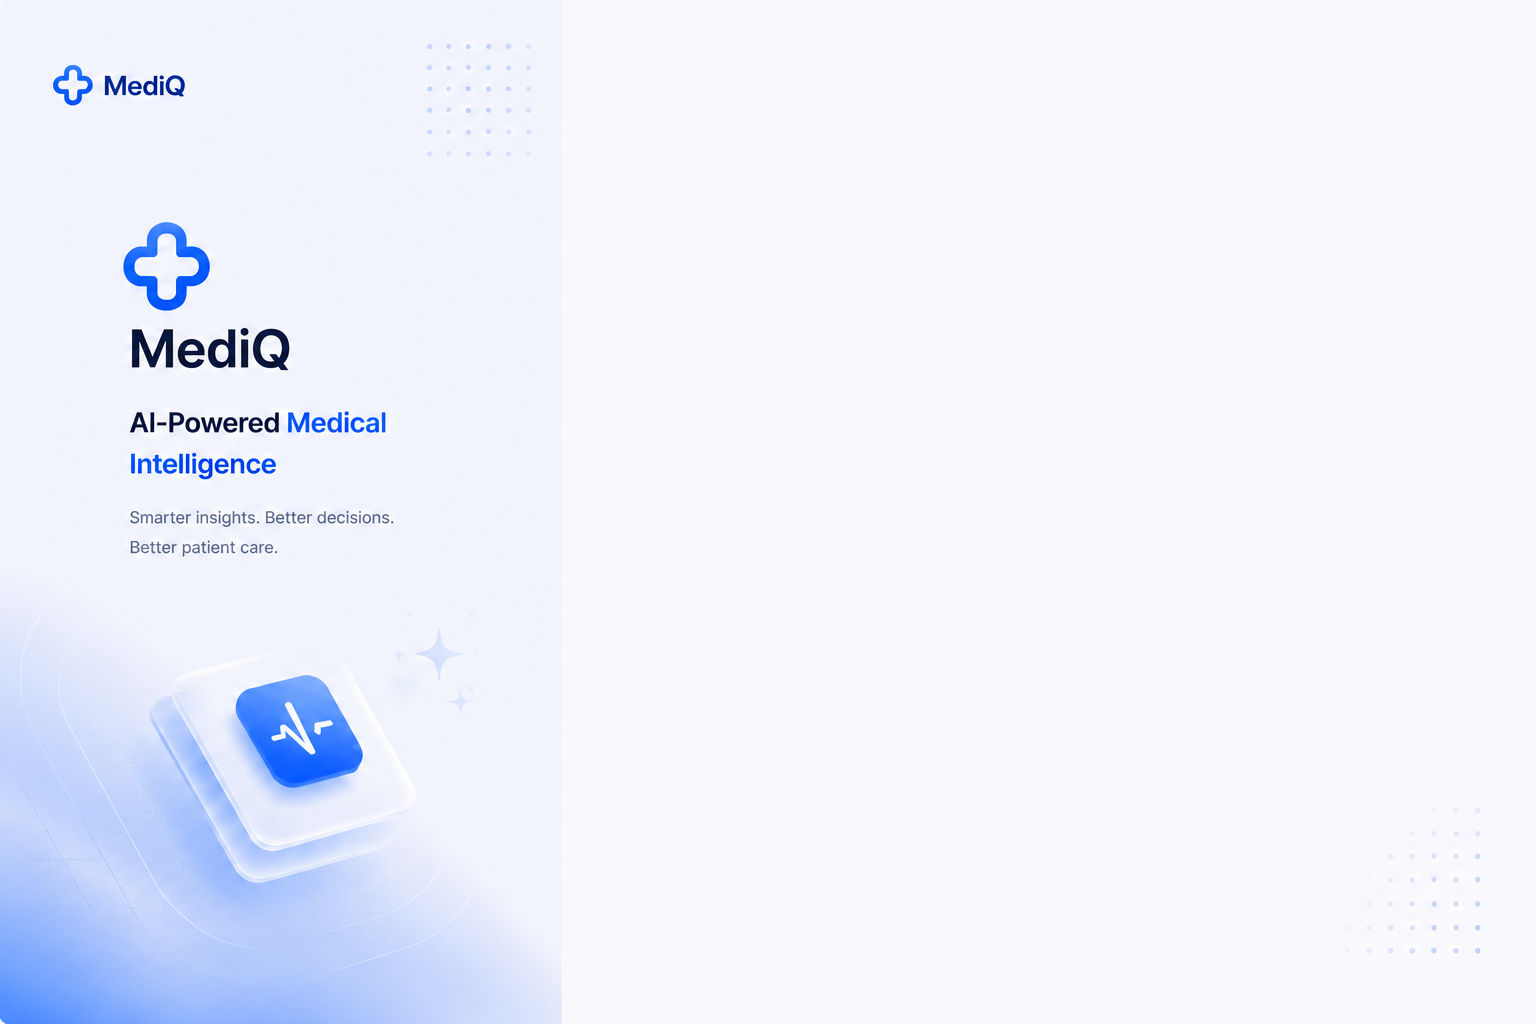
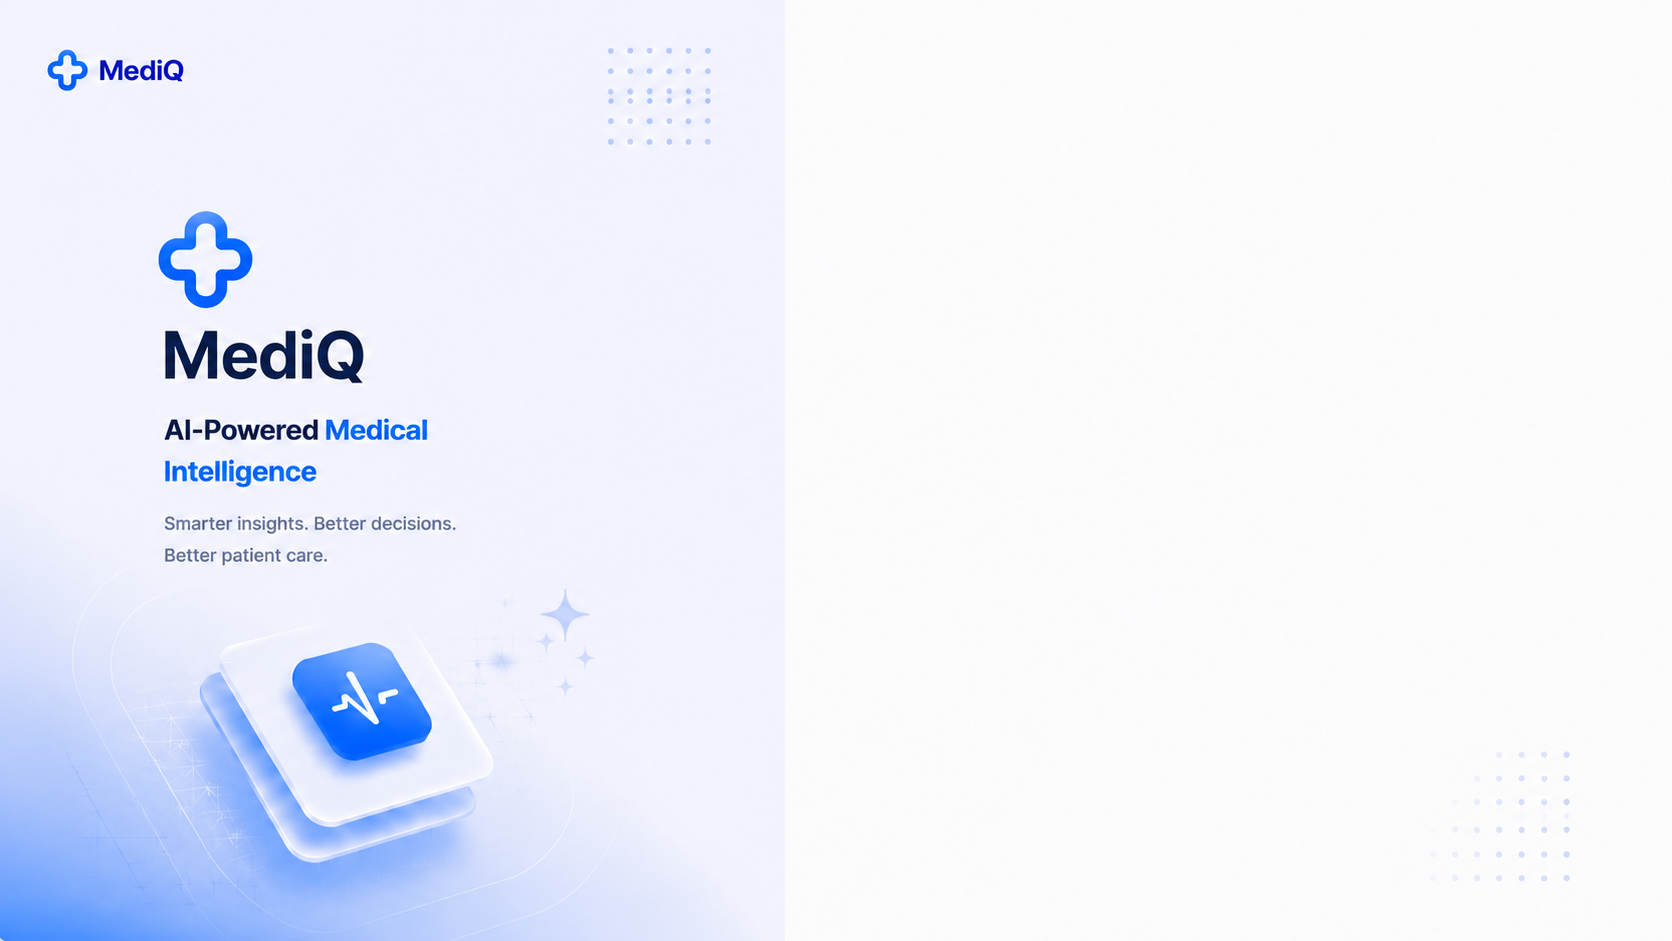
feat: streamline auth flow, chat navigation, and UI defaults

diff --git a/apps/web/src/app/(auth)/auth/page.tsx b/apps/web/src/app/(auth)/auth/page.tsx
@@ -72,137 +72,143 @@ export default function AuthPage() {
           }}
         />
         
-        {/* Auth Card Container */}
-        <div className="relative z-10 w-full flex items-center justify-center lg:justify-end lg:pr-[10%] xl:pr-[12%] p-4 lg:p-12 h-full">
-      <div
-        className="w-full max-w-[440px] bg-white rounded-2xl p-8 shadow-xl border relative"
-        style={{ borderColor: "var(--border-default)" }}
-      >
-        <div className="mb-8">
-          <h2 className="text-2xl font-bold" style={{ color: "var(--text-primary)" }}>
-            {isSignUp ? "Create an account" : "Welcome back"}
-          </h2>
-          <p className="text-sm mt-1.5" style={{ color: "var(--text-secondary)" }}>
-            {isSignUp ? "Sign up to get started with MediQ" : "Sign in to continue to MediQ"}
-          </p>
-        </div>
-
-        <div className="space-y-6">
-          <button
-            type="button"
-            onClick={handleGoogleAuth}
-            disabled={googleLoading}
-            className="w-full flex items-center justify-center gap-2 border rounded-xl py-2.5 text-sm font-medium transition-colors hover:bg-gray-50"
-            style={{ borderColor: "var(--border-default)", color: "var(--text-primary)" }}
-          >
-            {googleLoading ? (
-              <Spinner />
-            ) : (
-              <svg width="18" height="18" viewBox="0 0 24 24" fill="none" xmlns="http://www.w3.org/2000/svg">
-                <path d="M22.56 12.25c0-.78-.07-1.53-.2-2.25H12v4.26h5.92c-.26 1.37-1.04 2.53-2.21 3.31v2.77h3.57c2.08-1.92 3.28-4.74 3.28-8.09z" fill="#4285F4"/>
-                <path d="M12 23c2.97 0 5.46-.98 7.28-2.66l-3.57-2.77c-.98.66-2.23 1.06-3.71 1.06-2.86 0-5.29-1.93-6.16-4.53H2.18v2.84C3.99 20.53 7.7 23 12 23z" fill="#34A853"/>
-                <path d="M5.84 14.09c-.22-.66-.35-1.36-.35-2.09s.13-1.43.35-2.09V7.07H2.18C1.43 8.55 1 10.22 1 12s.43 3.45 1.18 4.93l2.85-2.22.81-.62z" fill="#FBBC05"/>
-                <path d="M12 5.38c1.62 0 3.06.56 4.21 1.64l3.15-3.15C17.45 2.09 14.97 1 12 1 7.7 1 3.99 3.47 2.18 7.07l3.66 2.84c.87-2.6 3.3-4.53 6.16-4.53z" fill="#EA4335"/>
-              </svg>
-            )}
-            Continue with Google
-          </button>
-
-          <div className="relative flex items-center">
-            <div className="flex-grow border-t" style={{ borderColor: "var(--border-default)" }}></div>
-            <span className="shrink-0 px-4 text-xs" style={{ color: "var(--text-muted)" }}>or</span>
-            <div className="flex-grow border-t" style={{ borderColor: "var(--border-default)" }}></div>
-          </div>
-
-          <form onSubmit={handleEmailAuth} className="space-y-4">
-            <div className="space-y-1.5">
-              <label className="text-sm font-medium" style={{ color: "var(--text-primary)" }}>Email address</label>
-              <div className="relative">
-                <div className="absolute inset-y-0 left-0 pl-3 flex items-center pointer-events-none text-gray-400">
-                  <Mail size={16} />
-                </div>
-                <Input
-                  type="email"
-                  required
-                  placeholder="Enter your email"
-                  value={email}
-                  onChange={(e) => setEmail(e.target.value)}
-                  className="pl-9 h-11 rounded-xl bg-gray-50/50"
-                />
+        {/* Auth Card Container (50/50 split) */}
+        <div className="relative z-10 w-full h-full flex lg:grid lg:grid-cols-2">
+          {/* Left half is empty (transparent) so the background image shows */}
+          <div className="hidden lg:block"></div>
+          
+          {/* Right half contains the centered card */}
+          <div className="flex flex-col items-center justify-center p-4 lg:p-12 h-full relative">
+            <div
+              className="w-full max-w-[440px] bg-white rounded-2xl p-8 shadow-xl border relative"
+              style={{ borderColor: "var(--border-default)" }}
+            >
+              <div className="mb-8">
+                <h2 className="text-2xl font-bold" style={{ color: "var(--text-primary)" }}>
+                  {isSignUp ? "Create an account" : "Welcome back"}
+                </h2>
+                <p className="text-sm mt-1.5" style={{ color: "var(--text-secondary)" }}>
+                  {isSignUp ? "Sign up to get started with MediQ" : "Sign in to continue to MediQ"}
+                </p>
               </div>
-            </div>
 
-            <div className="space-y-1.5">
-              <label className="text-sm font-medium" style={{ color: "var(--text-primary)" }}>Password</label>
-              <div className="relative">
-                <div className="absolute inset-y-0 left-0 pl-3 flex items-center pointer-events-none text-gray-400">
-                  <Lock size={16} />
-                </div>
-                <Input
-                  type={showPassword ? "text" : "password"}
-                  required
-                  placeholder="Enter your password"
-                  value={password}
-                  onChange={(e) => setPassword(e.target.value)}
-                  className="pl-9 pr-10 h-11 rounded-xl bg-gray-50/50"
-                />
+              <div className="space-y-6">
                 <button
                   type="button"
-                  className="absolute inset-y-0 right-0 pr-3 flex items-center text-gray-400 hover:text-gray-600"
-                  onClick={() => setShowPassword(!showPassword)}
+                  onClick={handleGoogleAuth}
+                  disabled={googleLoading}
+                  className="w-full flex items-center justify-center gap-2 border rounded-xl py-2.5 text-sm font-medium transition-colors hover:bg-gray-50"
+                  style={{ borderColor: "var(--border-default)", color: "var(--text-primary)" }}
                 >
-                  {showPassword ? <EyeOff size={16} /> : <Eye size={16} />}
+                  {googleLoading ? (
+                    <Spinner />
+                  ) : (
+                    <svg width="18" height="18" viewBox="0 0 24 24" fill="none" xmlns="http://www.w3.org/2000/svg">
+                      <path d="M22.56 12.25c0-.78-.07-1.53-.2-2.25H12v4.26h5.92c-.26 1.37-1.04 2.53-2.21 3.31v2.77h3.57c2.08-1.92 3.28-4.74 3.28-8.09z" fill="#4285F4"/>
+                      <path d="M12 23c2.97 0 5.46-.98 7.28-2.66l-3.57-2.77c-.98.66-2.23 1.06-3.71 1.06-2.86 0-5.29-1.93-6.16-4.53H2.18v2.84C3.99 20.53 7.7 23 12 23z" fill="#34A853"/>
+                      <path d="M5.84 14.09c-.22-.66-.35-1.36-.35-2.09s.13-1.43.35-2.09V7.07H2.18C1.43 8.55 1 10.22 1 12s.43 3.45 1.18 4.93l2.85-2.22.81-.62z" fill="#FBBC05"/>
+                      <path d="M12 5.38c1.62 0 3.06.56 4.21 1.64l3.15-3.15C17.45 2.09 14.97 1 12 1 7.7 1 3.99 3.47 2.18 7.07l3.66 2.84c.87-2.6 3.3-4.53 6.16-4.53z" fill="#EA4335"/>
+                    </svg>
+                  )}
+                  Continue with Google
                 </button>
+
+                <div className="relative flex items-center">
+                  <div className="flex-grow border-t" style={{ borderColor: "var(--border-default)" }}></div>
+                  <span className="shrink-0 px-4 text-xs" style={{ color: "var(--text-muted)" }}>or</span>
+                  <div className="flex-grow border-t" style={{ borderColor: "var(--border-default)" }}></div>
+                </div>
+
+                <form onSubmit={handleEmailAuth} className="space-y-4">
+                  <div className="space-y-1.5">
+                    <label className="text-sm font-medium" style={{ color: "var(--text-primary)" }}>Email address</label>
+                    <div className="relative">
+                      <div className="absolute inset-y-0 left-0 pl-3 flex items-center pointer-events-none text-gray-400">
+                        <Mail size={16} />
+                      </div>
+                      <Input
+                        type="email"
+                        required
+                        placeholder="Enter your email"
+                        value={email}
+                        onChange={(e) => setEmail(e.target.value)}
+                        className="pl-9 h-11 rounded-xl bg-gray-50/50"
+                      />
+                    </div>
+                  </div>
+
+                  <div className="space-y-1.5">
+                    <label className="text-sm font-medium" style={{ color: "var(--text-primary)" }}>Password</label>
+                    <div className="relative">
+                      <div className="absolute inset-y-0 left-0 pl-3 flex items-center pointer-events-none text-gray-400">
+                        <Lock size={16} />
+                      </div>
+                      <Input
+                        type={showPassword ? "text" : "password"}
+                        required
+                        placeholder="Enter your password"
+                        value={password}
+                        onChange={(e) => setPassword(e.target.value)}
+                        className="pl-9 pr-10 h-11 rounded-xl bg-gray-50/50"
+                      />
+                      <button
+                        type="button"
+                        className="absolute inset-y-0 right-0 pr-3 flex items-center text-gray-400 hover:text-gray-600"
+                        onClick={() => setShowPassword(!showPassword)}
+                      >
+                        {showPassword ? <EyeOff size={16} /> : <Eye size={16} />}
+                      </button>
+                    </div>
+                  </div>
+
+                  {!isSignUp && (
+                    <div className="flex items-center justify-between pt-1">
+                      <label className="flex items-center gap-2 cursor-pointer">
+                        <input type="checkbox" className="w-4 h-4 rounded border-gray-300 text-blue-600 focus:ring-blue-500 cursor-pointer" />
+                        <span className="text-sm text-gray-600 cursor-pointer">Remember me</span>
+                      </label>
+                      <a href="#" className="text-sm font-medium text-blue-600 hover:underline">Forgot password?</a>
+                    </div>
+                  )}
+
+                  {error && (
+                    <p className="text-sm text-red-500 text-center">{error}</p>
+                  )}
+
+                  <Button
+                    type="submit"
+                    disabled={loading}
+                    className="w-full h-11 rounded-xl text-base font-medium flex items-center justify-center gap-2 mt-2"
+                    style={{ background: "var(--brand-primary)", color: "#fff" }}
+                  >
+                    {loading && <Spinner />}
+                    {isSignUp ? "Sign up" : "Sign in"}
+                    {!loading && <ArrowRight size={16} />}
+                  </Button>
+                </form>
+
+                <p className="text-center text-sm text-gray-600">
+                  {isSignUp ? "Already have an account?" : "Don't have an account?"}{" "}
+                  <button
+                    onClick={() => {
+                      setIsSignUp(!isSignUp);
+                      setError("");
+                    }}
+                    className="font-medium text-blue-600 hover:underline"
+                  >
+                    {isSignUp ? "Sign in" : "Sign up"}
+                  </button>
+                </p>
               </div>
             </div>
-
-            {!isSignUp && (
-              <div className="flex items-center justify-between pt-1">
-                <label className="flex items-center gap-2 cursor-pointer">
-                  <input type="checkbox" className="w-4 h-4 rounded border-gray-300 text-blue-600 focus:ring-blue-500 cursor-pointer" />
-                  <span className="text-sm text-gray-600 cursor-pointer">Remember me</span>
-                </label>
-                <a href="#" className="text-sm font-medium text-blue-600 hover:underline">Forgot password?</a>
-              </div>
-            )}
-
-            {error && (
-              <p className="text-sm text-red-500 text-center">{error}</p>
-            )}
-
-            <Button
-              type="submit"
-              disabled={loading}
-              className="w-full h-11 rounded-xl text-base font-medium flex items-center justify-center gap-2 mt-2"
-              style={{ background: "var(--brand-primary)", color: "#fff" }}
-            >
-              {loading && <Spinner />}
-              {isSignUp ? "Sign up" : "Sign in"}
-              {!loading && <ArrowRight size={16} />}
-            </Button>
-          </form>
-
-          <p className="text-center text-sm text-gray-600">
-            {isSignUp ? "Already have an account?" : "Don't have an account?"}{" "}
-            <button
-              onClick={() => {
-                setIsSignUp(!isSignUp);
-                setError("");
-              }}
-              className="font-medium text-blue-600 hover:underline"
-            >
-              {isSignUp ? "Sign in" : "Sign up"}
-            </button>
-          </p>
+            
+            {/* Centered secure text below the card */}
+            <div className="mt-8 flex items-center justify-center gap-2 text-sm text-gray-500 font-medium w-full max-w-[440px]">
+              <CheckCircle2 size={16} className="text-gray-400" />
+              Your data is secure with MediQ
+            </div>
+          </div>
         </div>
-      </div>
-      
-      {/* Absolute positioned secure text matching the design below the card */}
-      <div className="absolute bottom-10 lg:bottom-16 lg:right-[15%] w-full max-w-[440px] flex items-center justify-center gap-2 text-sm text-gray-500 font-medium">
-        <CheckCircle2 size={16} className="text-gray-400" />
-        Your data is secure with MediQ
-      </div>
-      </div>
       </div>
     </div>
   );

diff --git a/apps/web/src/app/(app)/chat/page.tsx b/apps/web/src/app/(app)/chat/page.tsx
@@ -1,20 +1,5 @@
-import Link from "next/link";
-import { Button } from "@/components/ui/button";
+import ChatPanel from "@/components/chat/ChatPanel";
 
 export default function ChatIndexPage() {
-  return (
-    <div className="flex h-full w-full items-center justify-center p-4">
-      <div className="text-center space-y-4">
-        <h2 className="text-2xl font-semibold tracking-tight">No case selected</h2>
-        <p className="text-muted-foreground">
-          Select a case from the sidebar or upload a new document to get started.
-        </p>
-        <Link href="/">
-          <Button variant="default" className="mt-2">
-            Upload documents
-          </Button>
-        </Link>
-      </div>
-    </div>
-  );
+  return <ChatPanel sessionId="new" />;
 }

diff --git a/apps/web/src/middleware.ts b/apps/web/src/middleware.ts
@@ -17,6 +17,13 @@ export async function middleware(request: NextRequest) {
     return NextResponse.redirect(url)
   }
 
+  // If user is logged in and tries to access /auth, redirect to /chat
+  if (user && pathname.startsWith('/auth')) {
+    const url = request.nextUrl.clone()
+    url.pathname = '/chat'
+    return NextResponse.redirect(url)
+  }
+
   return supabaseResponse
 }
 

diff --git a/apps/web/src/stores/sessionStore.ts b/apps/web/src/stores/sessionStore.ts
@@ -10,7 +10,7 @@ interface SessionState {
 
 export const useSessionStore = create<SessionState>((set) => ({
   activeSessionId: null,
-  isSidebarOpen: false,
+  isSidebarOpen: true,
   setActiveSession: (id) => set({ activeSessionId: id }),
   toggleSidebar: () => set((state) => ({ isSidebarOpen: !state.isSidebarOpen })),
   closeSidebar: () => set({ isSidebarOpen: false }),